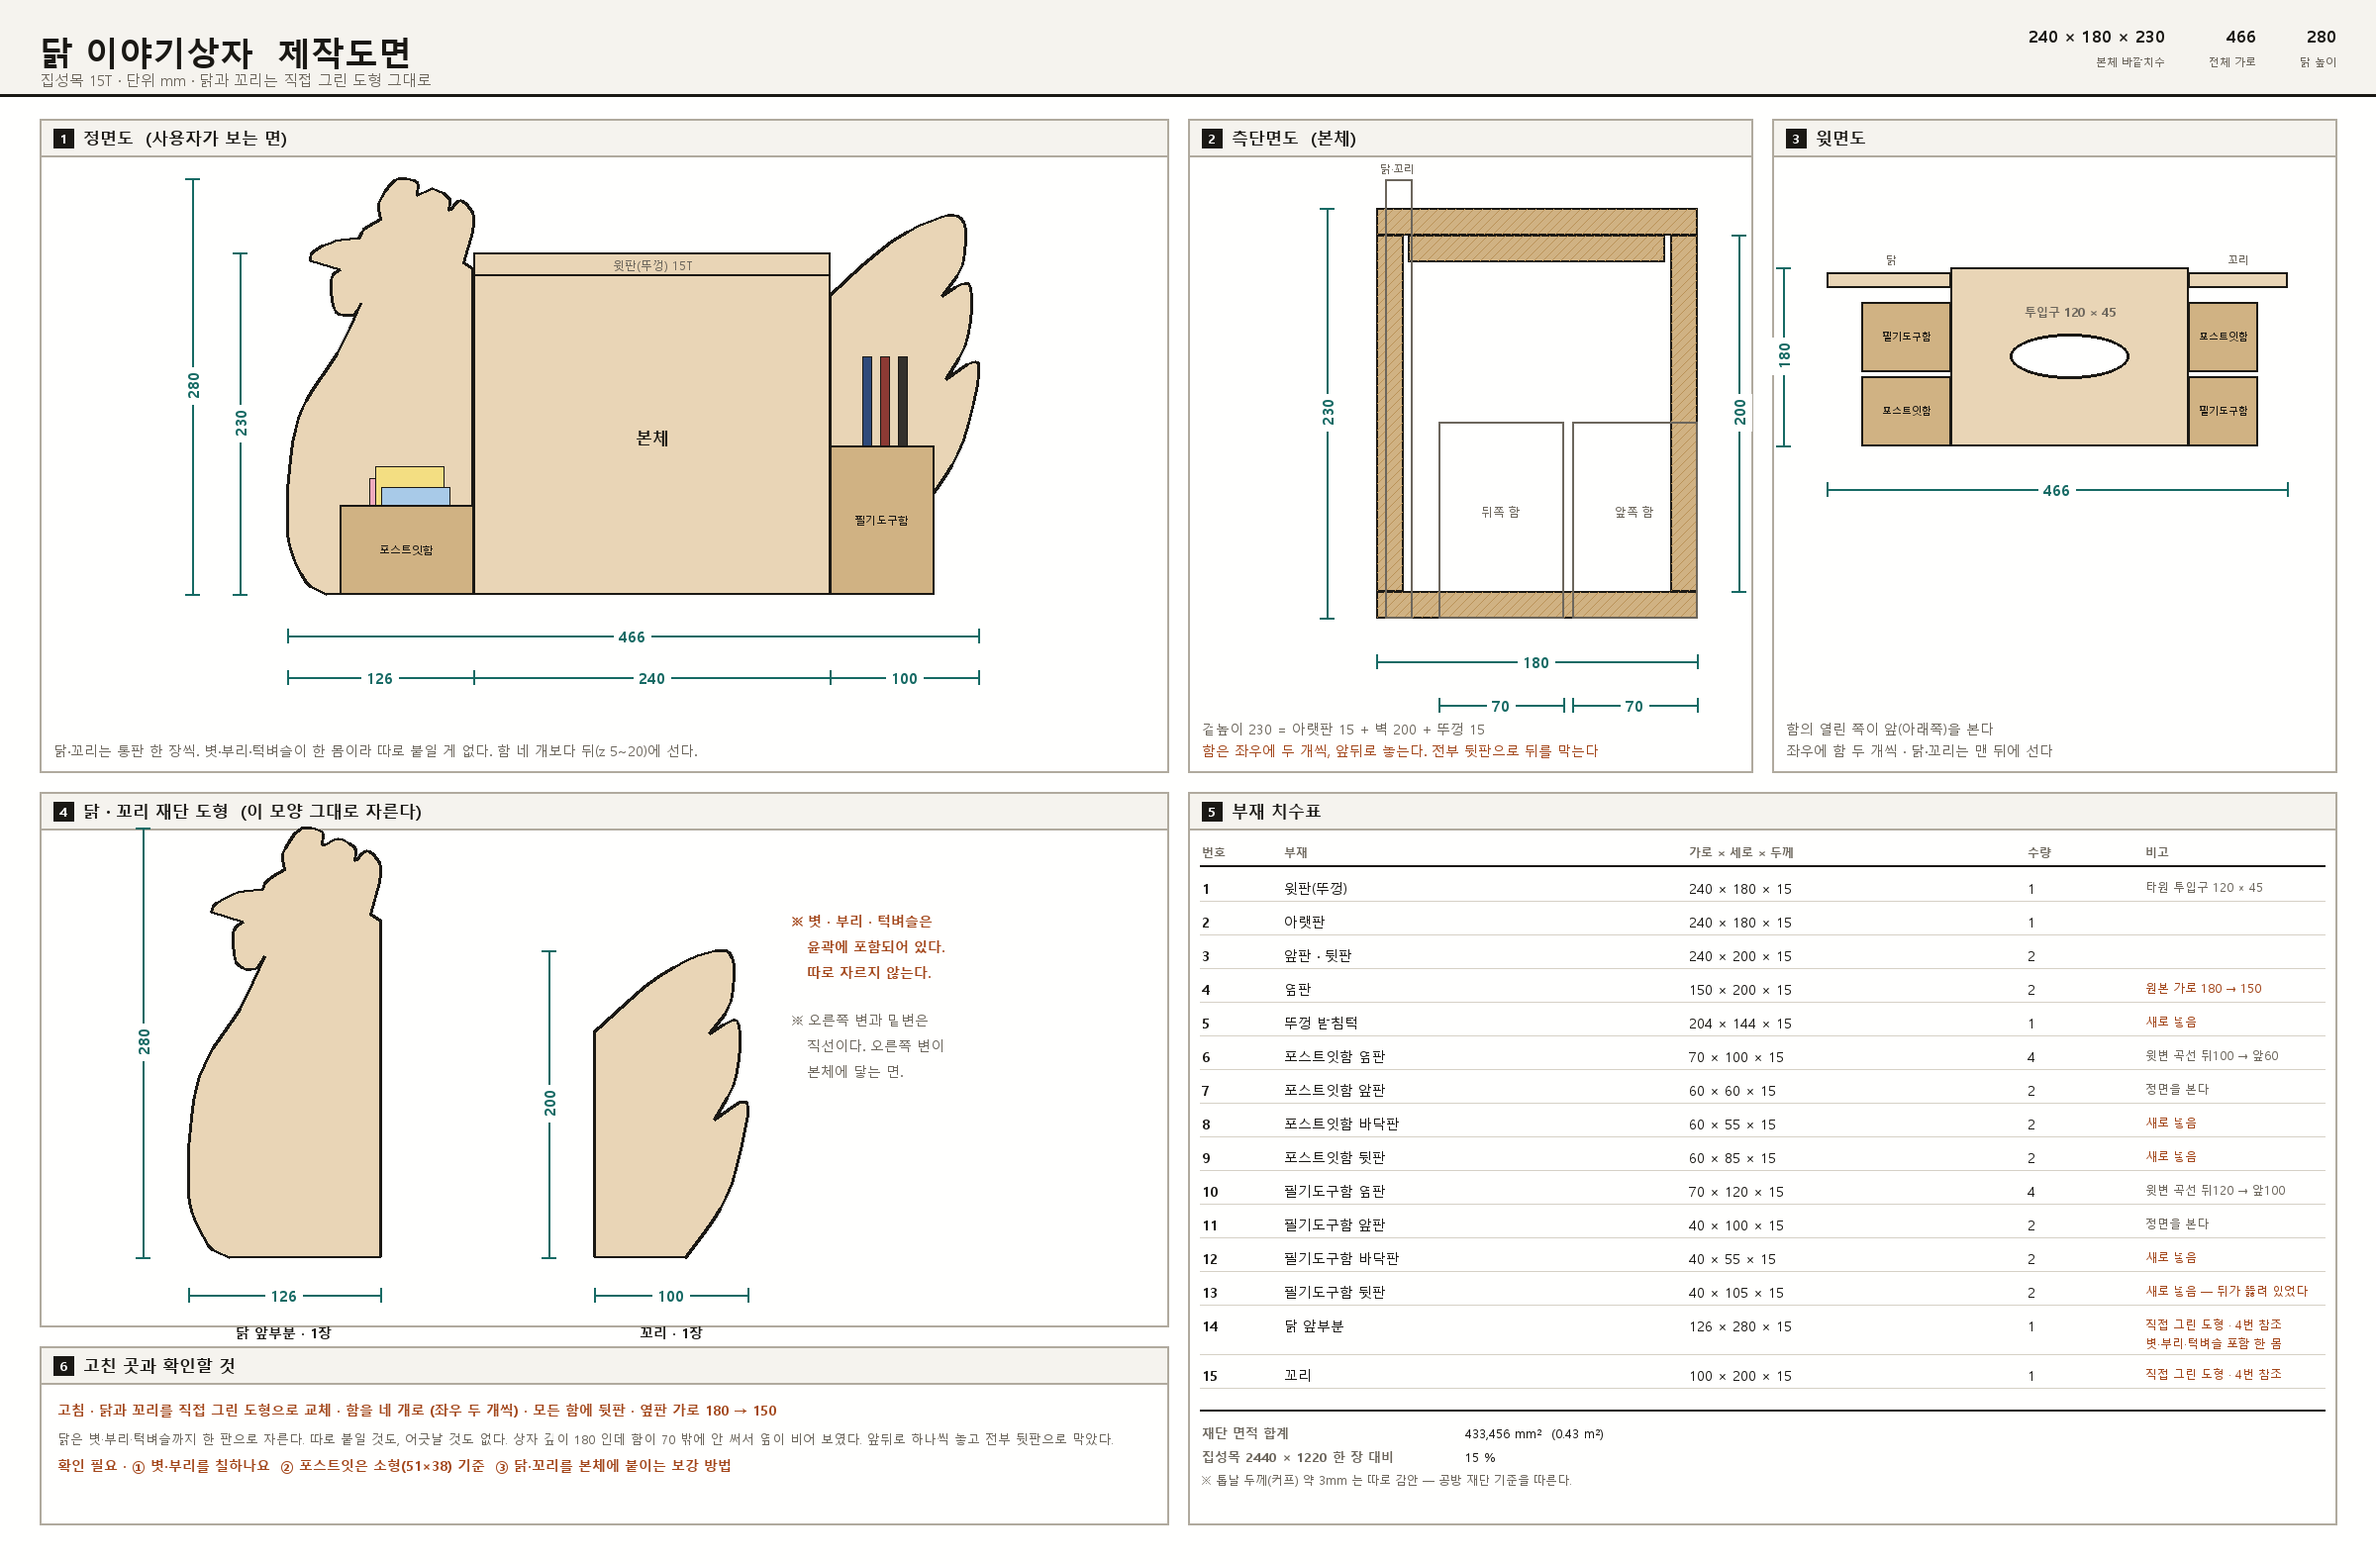
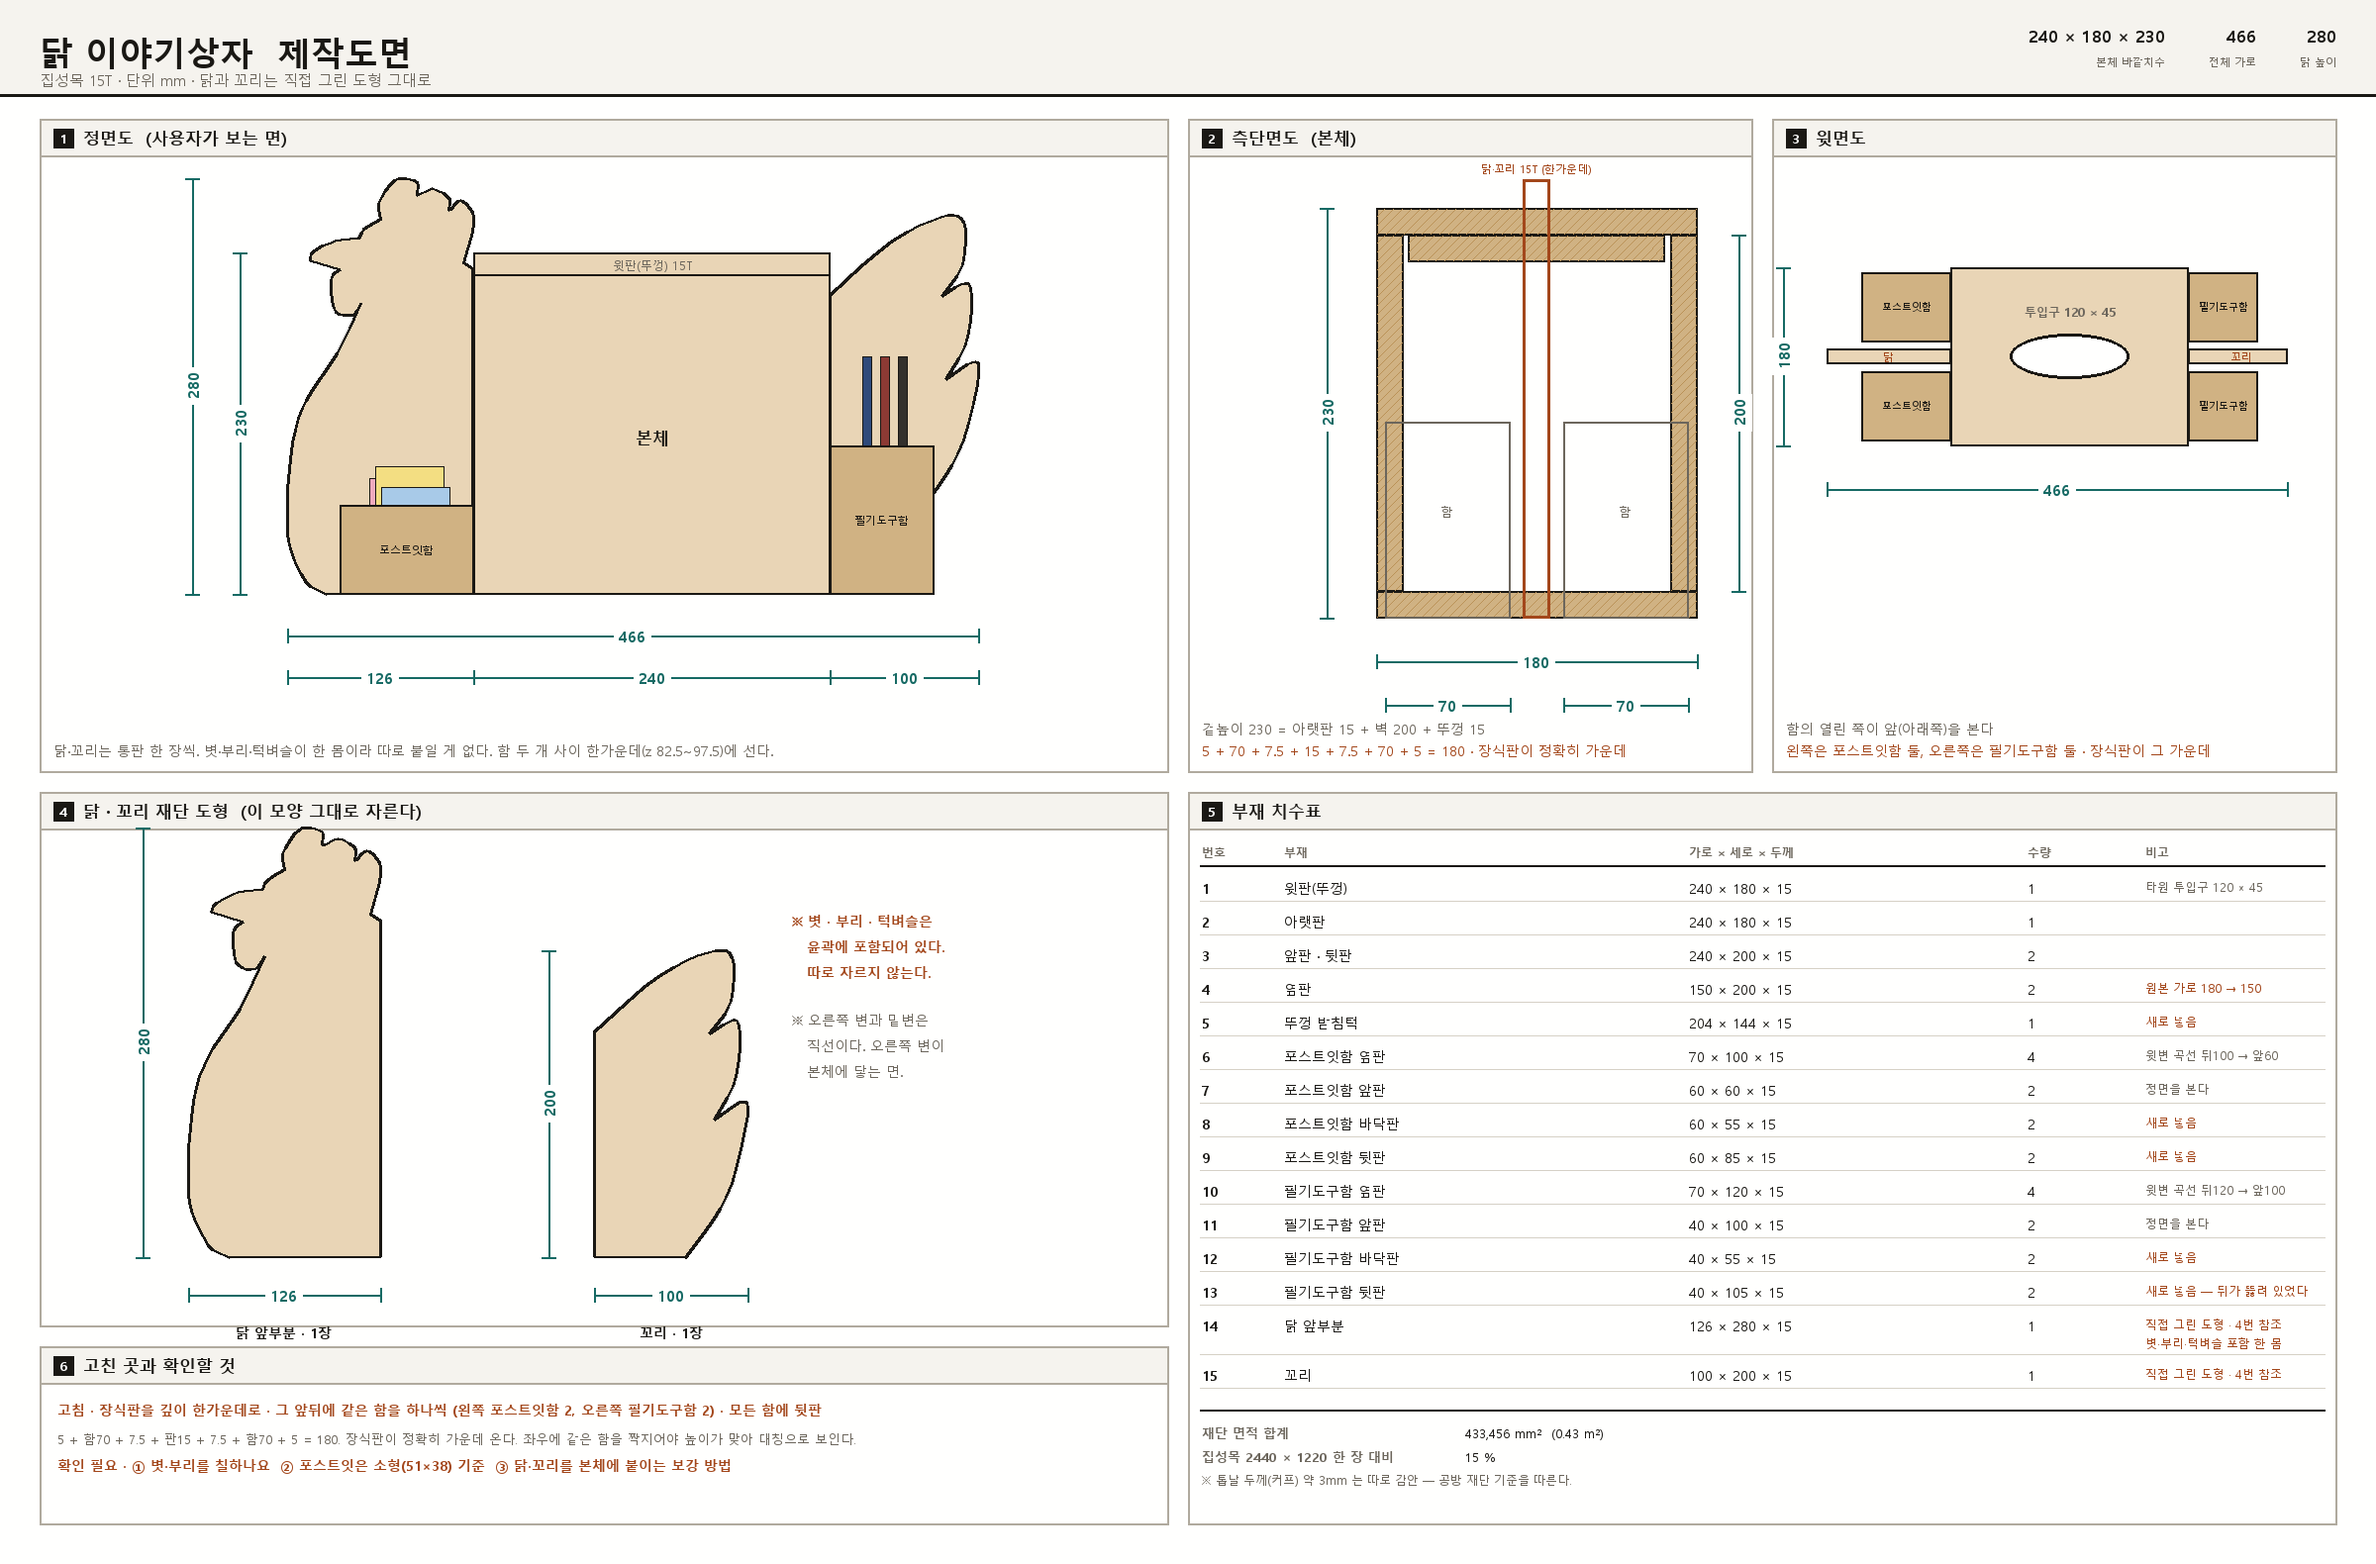
Add files via upload

diff --git a/index.html b/index.html
@@ -369,37 +369,39 @@ function modelB(){
        x:x0+T, y:T,  z:z0,      w:inner, h:hBack-T, d:T,
        chg:"새로 넣음 — 뒤가 뚫려 있었다"});
   }
-  //      묶음            번호  x      안쪽 뒤  앞   z    이름
-  caddy("포스트잇함",      7,  -90,  60, 100,  60, 110, "포스트잇함");
-  caddy("포스트잇함 (뒤)", 20, W,    60, 100,  60,  35, "포스트잇함");
-  caddy("필기도구함",     11,  W,    40, 120, 100, 110, "필기도구함");
-  caddy("필기도구함 (뒤)",24,  -90,  40, 120, 100,  35, "필기도구함");
+  /* 장식판을 깊이 한가운데(z 82.5~97.5)에 두고 그 앞뒤로 같은 함을 하나씩.
+       5 + 함70 + 7.5 + 판15 + 7.5 + 함70 + 5 = 180  → 장식판이 정확히 가운데 */
+  //      묶음               번호  x      안쪽 뒤  앞   z    이름
+  caddy("포스트잇함 (앞)",   7,  -90,  60, 100,  60, 105, "포스트잇함");
+  caddy("포스트잇함 (뒤)",  20,  -90,  60, 100,  60,   5, "포스트잇함");
+  caddy("필기도구함 (앞)",  11,   W,   40, 120, 100, 105, "필기도구함");
+  caddy("필기도구함 (뒤)",  24,   W,   40, 120, 100,   5, "필기도구함");
 
-  [[122,78,"note1"],[136,86,"note2"],[150,72,"note3"]].forEach(function(s){
-    p({id:0, g:"포스트잇함", n:"포스트잇", cut:"", q:0, x:-70, y:16, z:s[0], w:50, h:s[1], d:9,
+  [[117,78,"note1"],[131,86,"note2"],[145,72,"note3"]].forEach(function(s){
+    p({id:0, g:"포스트잇함 (앞)", n:"포스트잇", cut:"", q:0, x:-70, y:16, z:s[0], w:50, h:s[1], d:9,
        r:2, col:COL[s[2]], decor:true, sub:"참고용 · 부재 아님"});
   });
-  [[262,128,"pen1"],[274,146,"pen2"],[286,134,"pen3"]].forEach(function(s){
-    p({id:0, g:"필기도구함", n:"펜", cut:"", q:0, x:s[0], y:15, z:s[1], cyl:[4,150], col:COL[s[2]], decor:true, sub:"참고용 · 부재 아님"});
+  [[262,123,"pen1"],[274,141,"pen2"],[286,129,"pen3"]].forEach(function(s){
+    p({id:0, g:"필기도구함 (앞)", n:"펜", cut:"", q:0, x:s[0], y:15, z:s[1], cyl:[4,150], col:COL[s[2]], decor:true, sub:"참고용 · 부재 아님"});
   });
 
   /* 닭 앞부분 · 꼬리 : 직접 그린 도형 그대로. 함들보다 뒤(z 5~20)에 선다 */
   p({id:13,g:"닭 앞부분", n:"닭 앞부분", cut:"126 × 280", q:1,
-     x:-126, y:0, z:5, w:126, h:280, d:T, drawn:"head",
+     x:-126, y:0, z:82.5, w:126, h:280, d:T, drawn:"head",
      sub:"볏·부리·턱벼슬 한 몸"});
   p({id:14,g:"꼬리", n:"꼬리", cut:"100 × 200", q:1,
-     x:W, y:55, z:5, w:100, h:200, d:T, drawn:"tail"});
+     x:W, y:55, z:82.5, w:100, h:200, d:T, drawn:"tail"});
 
   return { key:"B", title:"닭 이야기상자", parts:P, W:W, H:H, D:D,
     dims:[["본체 가로",W],["본체 높이",H],["본체 깊이",D]],
     span:[-126, 345], top:280,
     groups:{ "프레임":[0,0,0,0], "뚜껑":[0,1,0,125],
-             "포스트잇함":[-1,0,0.35,140], "필기도구함 (뒤)":[-1,0,-0.35,140],
-             "필기도구함":[1,0,0.35,140],  "포스트잇함 (뒤)":[1,0,-0.35,140],
-             "닭 앞부분":[-0.6,0.15,-1,155], "꼬리":[0.6,0.15,-1,155] },
+             "포스트잇함 (앞)":[-1,0,0.5,150], "포스트잇함 (뒤)":[-1,0,-0.5,150],
+             "필기도구함 (앞)":[1,0,0.5,150],  "필기도구함 (뒤)":[1,0,-0.5,150],
+             "닭 앞부분":[-0.75,0.3,0,170], "꼬리":[0.75,0.3,0,170] },
     fixes:[
       ["고침","<b>닭 앞부분과 꼬리를 직접 그린 도형으로 바꿨습니다.</b> 볏·부리·턱벼슬이 한 몸이라 따로 붙일 것도, 어긋날 것도 없습니다."],
-      ["고침","<b>함을 네 개로 늘리고 전부 뒷판을 넣었습니다.</b> 상자 깊이 180인데 함이 70밖에 안 써서 옆이 비어 보였습니다. 앞뒤로 하나씩 놓았습니다."],
+      ["고침","<b>장식판을 깊이 한가운데에 두고 앞뒤로 같은 함을 하나씩 놓았습니다.</b> <span class='num'>5+70+7.5+15+7.5+70+5=180</span> 으로 딱 맞아떨어집니다. 왼쪽은 포스트잇함 둘, 오른쪽은 필기도구함 둘이라 높이도 대칭입니다."],
       ["고침","<b>함의 앞판이 정면(사용자 쪽)을 봅니다.</b> 포스트잇과 펜이 앞에서 보입니다."],
       ["고침","<b>옆판 가로 180 → 150</b> · <b>뚜껑 받침턱과 함 바닥판</b>을 새로 넣었습니다."],
       ["유지","본체 <span class='num'>240 × 180 × 230</span>, 타원 투입구 <span class='num'>120 × 45</span>, 함 옆판 <span class='num'>70</span>·앞판 <span class='num'>60/40</span> 은 손도면 그대로입니다."]
